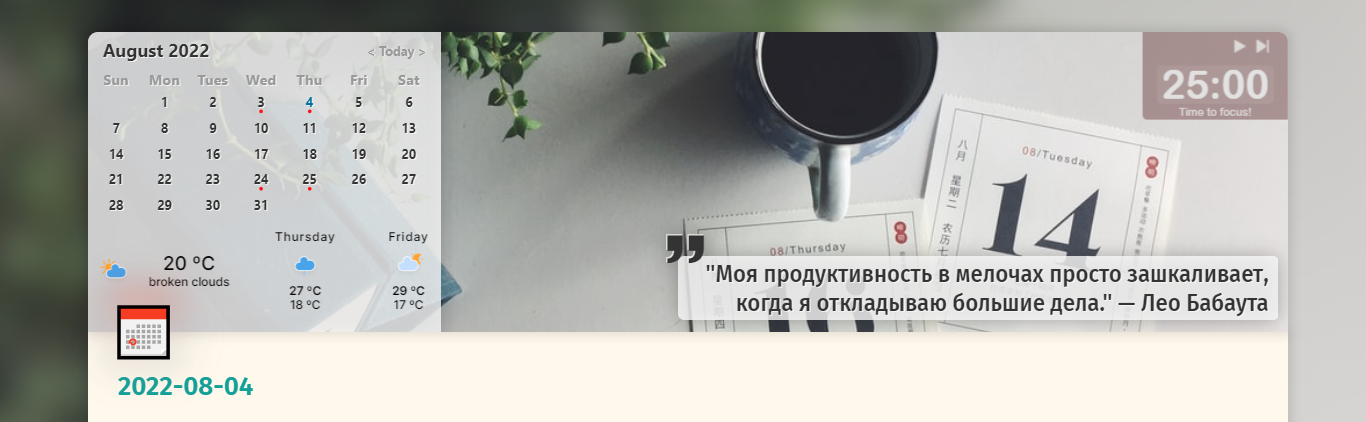
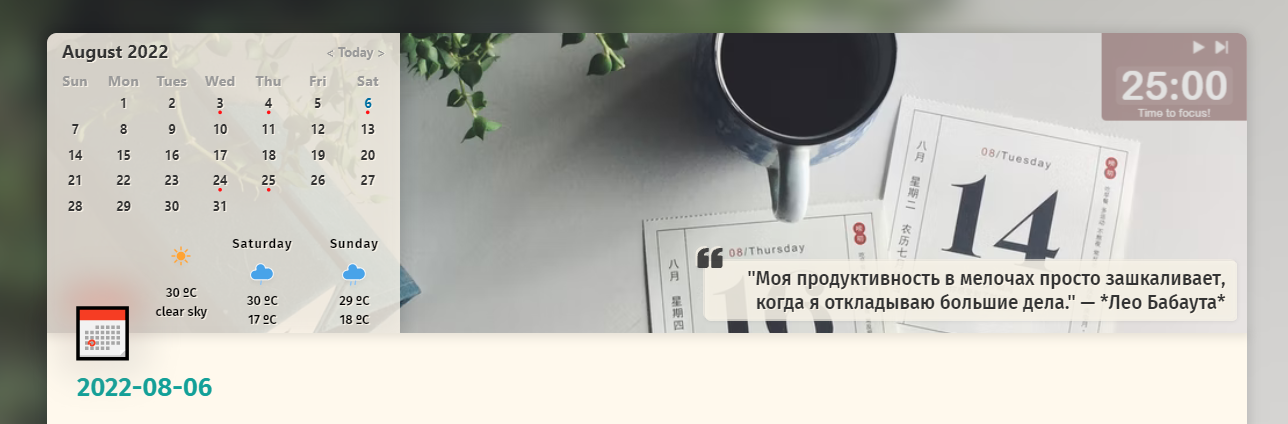
feat(weather): widget reworked from iframe to HTML, colors fixed, city deleted

diff --git a/src/main.ts b/src/main.ts
@@ -681,9 +681,9 @@ const hidePlaceholder = () => {
 }
 
 // Render widgets
-const renderWidgets = () => {
+const renderWidgets = async () => {
   const isWidgetCalendarRendered = renderWidgetCalendar();
-  const isWidgetWeatherRendered = renderWidgetWeather();
+  const isWidgetWeatherRendered = await renderWidgetWeather();
   if (isWidgetCalendarRendered || isWidgetWeatherRendered) {
     doc.getElementById("banner-widgets")?.classList.add("banner-widgets-bg");
   } else {
@@ -705,7 +705,7 @@ const renderWidgetCalendar = () => {
 }
 
 // Render weather widget
-const renderWidgetWeather = () => {
+const renderWidgetWeather = async () => {
   const bannerWidgetsWeather = doc.getElementById("banner-widgets-weather");
   if (widgetsConfig.weather.enabled === "off" || (widgetsConfig.weather.enabled === "journals" && !(isHome || isJournal))) {
     bannerWidgetsWeather?.remove();
@@ -713,9 +713,32 @@ const renderWidgetWeather = () => {
   }
   if (!bannerWidgetsWeather || isWidgetsWeatherChanged) {
     bannerWidgetsWeather?.remove();
-    doc.getElementById("banner-widgets")?.insertAdjacentHTML("beforeend", `<iframe id="banner-widgets-weather" src="https://indify.co/widgets/live/weather/${widgetsConfig.weather.id}"></iframe>`);
+    const weatherHTML= await getWeatherHTML()
+    doc.getElementById("banner-widgets")?.insertAdjacentHTML("beforeend", `<div id="banner-widgets-weather">${weatherHTML}</div>`);
   }
   return true;
+}
+
+const getWeatherHTML = async () => {
+  const weatherURL = `https://indify.co/widgets/live/weather/${widgetsConfig.weather.id}`;
+  let html = "";
+  let response = await fetch(weatherURL);
+  if (response && response.status === 200) {
+    html = await response.text();
+    if (html) {
+      html = html.replace(/src="/g, 'src="https://indify.co')
+                .replace(/flex-dir/g, "display:flex;flex-dir")
+                .replace(/__...../g, "");
+      var parser = new DOMParser();
+      var weatherDoc = parser.parseFromString(html, 'text/html');
+      weatherDoc.getElementById("weatherTemp")?.remove();
+      html = weatherDoc.querySelector("[class^=weather_container]")?.innerHTML || "";
+    }
+  }
+  else {
+    console.info(`#${pluginId}: HTTP-Error: ${response.status}`);
+  }
+  return html;
 }
 
 // Render random quote widget
@@ -767,7 +790,8 @@ const getRandomQuote = async () => {
   }
   const randomQuoteBlock = quotesList[Math.floor(Math.random() * quotesList.length)][0];
   const randomQuoteContent: string = randomQuoteBlock.content || "";
-  return randomQuoteContent.replace(/>|\*|#quote/gi, "").trim();
+  const regExpVal = new RegExp(`${widgetsConfig.quote.tag}`,"gi");
+  return randomQuoteContent.replace(regExpVal, "").trim();
 }
 
 // Render custom widget

diff --git a/src/main.css b/src/main.css
@@ -142,17 +142,33 @@ body[data-page="home"].is-icon-active #journals .journal-item:first-of-type h1.t
 /* Weather */
 #banner-widgets-weather {
     position: absolute;
-    bottom: 0;
-    left: calc(var(--widgetsCalendarWidth) * 0.9);
-    min-width: 632px;
-    min-height: 110px;
-    width: var(--widgetsWeatherWidth);
-    height: 110px;
-    transform: scale(0.8) translate(-100%, -10%);
-    pointer-events: none;
+    bottom: 4px;
+    left: 0;
+    display: flex;
+    width: calc(var(--widgetsCalendarWidth) * 0.93);
+    text-shadow: 1px 1px 0px rgba(var(--widgetsBgColor), 0.8);
 }
 html[data-theme='dark'] #banner-widgets-weather {
     filter: hue-rotate(180deg) invert(1);
+}
+.weatherText {
+    font-size: 0.8em !important;
+    font-weight: bold;
+    text-align: center;
+}
+.weather_row {
+    align-items: center;
+}
+.weather_image {
+    max-width: 46px !important;
+    margin: -4px 8px !important;
+}
+.weather_currentContainer > .weather_currentContainer {
+    flex-direction: column !important;
+    flex: initial !important;
+    margin: 0 0px 0 auto !important;
+    align-items: center;
+    width: 70px;
 }
 
 /* Quote */

diff --git a/README.md b/README.md
@@ -58,8 +58,6 @@ Enliven your Logseq Workspace with gorgeous, custom, Notion style page banners a
 * Go to [Indify – Notion Widgets](https://indify.co), Sign Up
 * Choose "Weather widget", set your city
 * Set "Number of days" - 2
-* ⚠ Set colors (mandatory!) for proper work with "Banners" plugin
-* ![](screenshots/weather-config.png)
 * ⚠ Copy YOUR personal widget ID and replace default in plugin Settings!
 * Adjust weather width, so your city name is hidden on left
 
